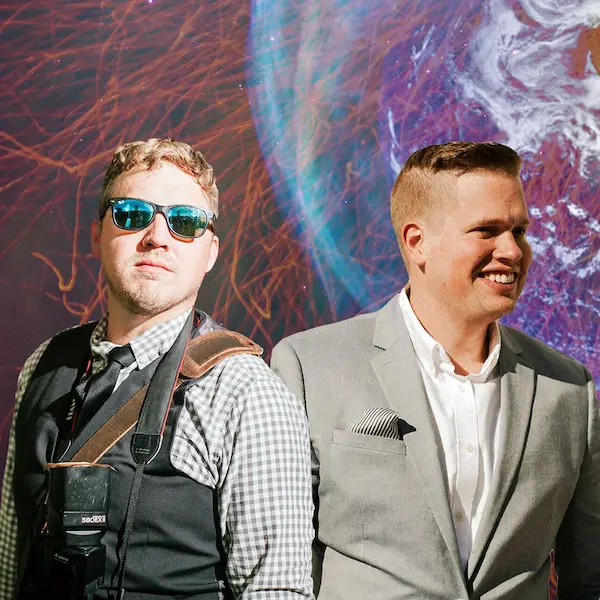
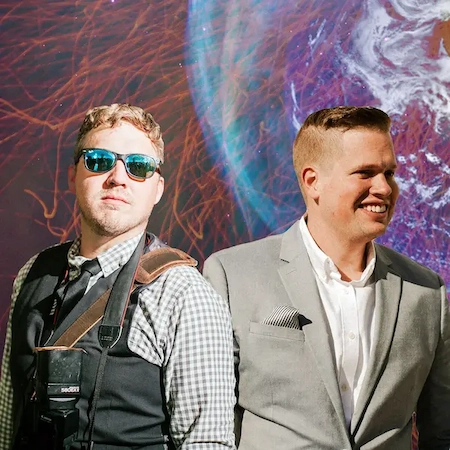
Speed Updates 2.5 (resizing and cropping images on index page, serving smaller hero images)

diff --git a/public/css/global.css b/public/css/global.css
@@ -109,11 +109,11 @@ nav ul li a:hover {
     padding: 0;
     margin: 0;
     border-radius: 0;
-    height: 500px;
+    height: 400px;
 }
 
 .hero-two {
-    height: 500px;
+    height: 400px;
     display: flex;
     justify-content: center;
     align-items: center;
@@ -877,12 +877,12 @@ h2 {
     }
 
     .hero-two {
-        height: 320px;
+        height: 400px;
         /* or even 280px for small phones */
     }
 
     .hero {
-        height: 320px;
+        height: 400px;
         /* or even 280px for small phones */
     }
 
